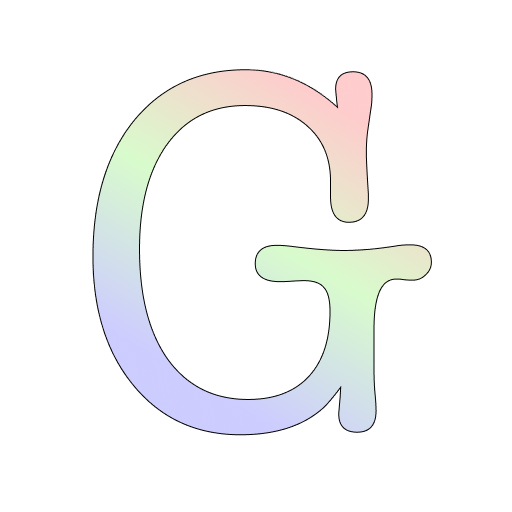
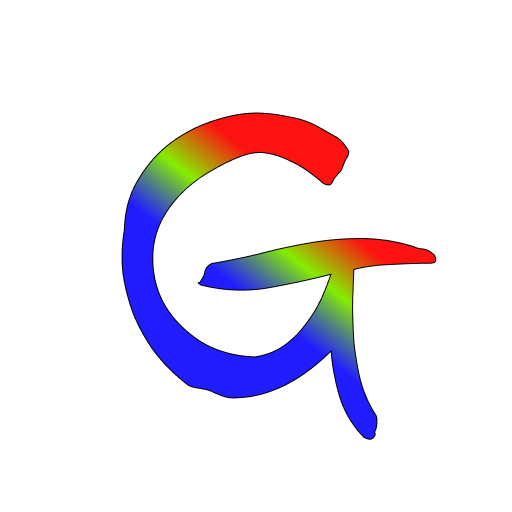
fix: support any web font

Changed region(s): [[0.1562, 0.125, 0.875, 0.875]]

diff --git a/src/main.ts b/src/main.ts
@@ -11,6 +11,14 @@ const defineSettings: SettingSchemaDesc[] = [
     type: "string",
   },
   {
+    key: "main_font_cdn",
+    title: "Main font CDN",
+    description:
+      "The font CDN makes you load even faster, and/or even from non-google source. Leave empty to disable this feature.",
+    default: "",
+    type: "string",
+  },
+  {
     key: "main_font_size",
     title: "Main font size",
     description: "Main font color",
@@ -38,6 +46,14 @@ const defineSettings: SettingSchemaDesc[] = [
     title: "Title font name",
     description:
       "You can choose font from https://fonts.google.com. Change back to empty to disable applied font",
+    default: "",
+    type: "string",
+  },
+  {
+    key: "title_font_cdn",
+    title: "Title font CDN",
+    description:
+      "The font CDN makes you load even faster, and/or even from non-google source. Leave empty to disable this feature.",
     default: "",
     type: "string",
   },
@@ -72,6 +88,14 @@ const defineSettings: SettingSchemaDesc[] = [
     type: "string",
   },
   {
+    key: "code_font_cdn",
+    title: "Code font CDN",
+    description:
+      "The font CDN makes you load even faster, and/or even from non-google source. Leave empty to disable this feature.",
+    default: "",
+    type: "string",
+  },
+  {
     key: "code_font_size",
     title: "Code font size",
     description: "Code font color",
@@ -92,11 +116,14 @@ logseq.useSettingsSchema(defineSettings);
 const applyStyles = () => {
   const settings: any = logseq.settings;
   if (settings.main_font) {
+    const font_url =
+      settings.main_font_cdn ||
+      `https://fonts.googleapis.com/css?family=${settings.main_font}`;
     logseq.provideStyle({
       key: "main-font",
       style: `
       /* main font */
-      @import url('https://fonts.googleapis.com/css?family=${settings.main_font}');
+      @import url('${font_url}');
       #main-content-container {
         font-family: "${settings.main_font}", sans-serif !important;
         font-weight: ${settings.main_font_weight} !important;
@@ -113,11 +140,14 @@ const applyStyles = () => {
   }
 
   if (settings.title_font) {
+    const font_url =
+      settings.title_font_cdn ||
+      `https://fonts.googleapis.com/css?family=${settings.title_font}`;
     logseq.provideStyle({
       key: "title-font",
       style: `
       /* title font */
-      @import url('https://fonts.googleapis.com/css?family=${settings.title_font}');
+      @import url('${font_url}');
       #main-content-container .page-title .title, #main-content-container .journal-title .title {
         font-family: "${settings.title_font}", sans-serif !important;
         font-weight: ${settings.title_font_weight} !important;
@@ -134,11 +164,14 @@ const applyStyles = () => {
   }
 
   if (settings.code_font) {
+    const font_url =
+      settings.code_font_cdn ||
+      `https://fonts.googleapis.com/css?family=${settings.code_font}`;
     logseq.provideStyle({
       key: "code-font",
       style: `
       /* code font */
-      @import url('https://fonts.googleapis.com/css?family=${settings.code_font}');
+      @import url('${font_url}');
       .CodeMirror pre.CodeMirror-line, .CodeMirror-gutter, .CodeMirror-gutters, .CodeMirror-linenumber, .CodeMirror-scroll, .CodeMirror-sizer {
         font-family: "${settings.code_font}", sans-serif !important;
         font-weight: ${settings.code_font_weight} !important;

diff --git a/README.md b/README.md
@@ -12,6 +12,7 @@ Google fonts have more than 1400+ fonts which can be used in Logseq now. You can
 
 - Support page title, main content and code block settings.
 - Support font family, font size, font weight and font color settings.
+- Support any web font.
 
 ## Buy me a coffee
 

diff --git a/CHANGELOG.md b/CHANGELOG.md
@@ -1,5 +1,9 @@
 # CHANGELOG
 
+## v0.0.3
+
+- feat: support any web css font.
+
 ## v0.0.2
 
 - fix: journal home page title
